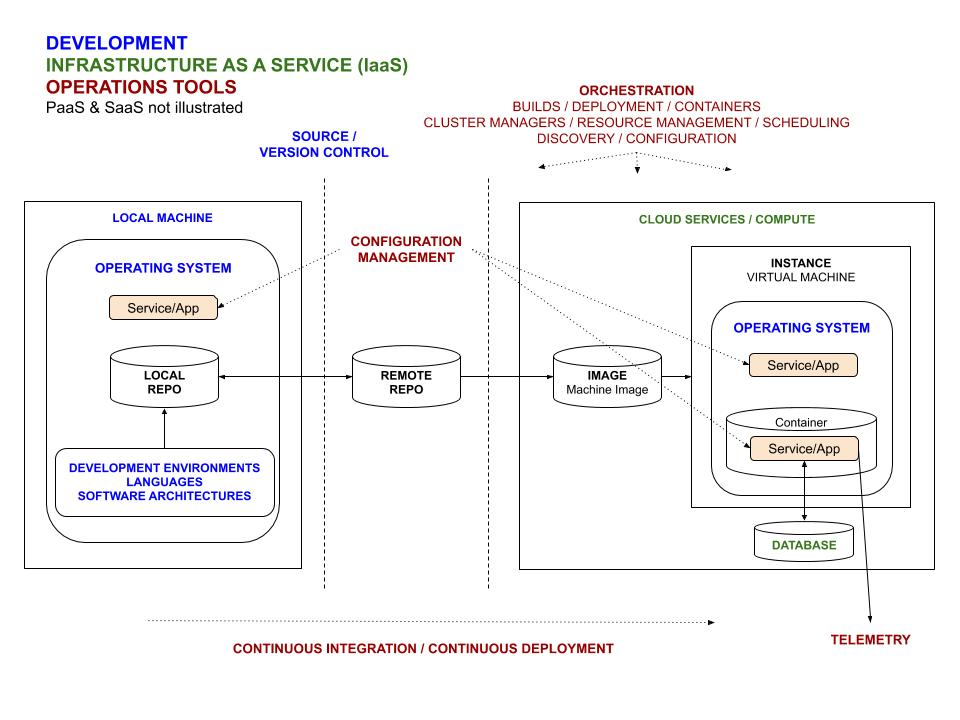
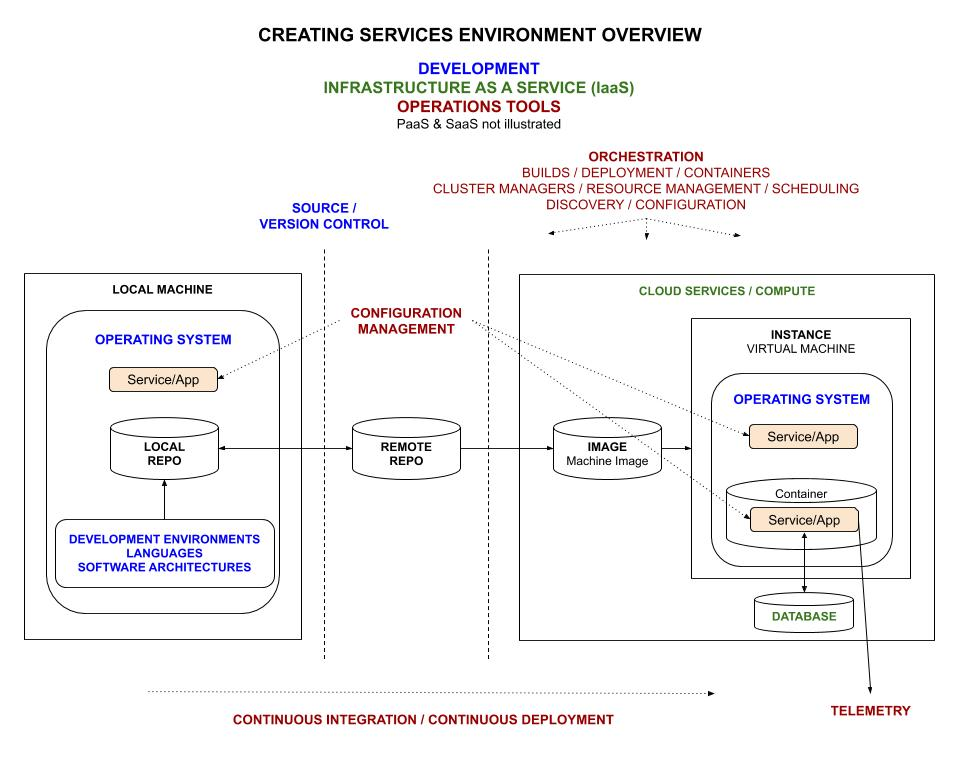
update hardware overview pic

diff --git a/other/science/earth-and-space-science/astronomy-cheat-sheet/solar-system-and-beyond.md b/other/science/earth-and-space-science/astronomy-cheat-sheet/solar-system-and-beyond.md
@@ -23,6 +23,7 @@ in our solar system and beyond._
   * [MAKEMAKE (DWARF PLANET)](https://github.com/JeffDeCola/my-cheat-sheets/blob/master/other/science/earth-and-space-science/astronomy-cheat-sheet/solar-system-and-beyond.md#makemake)
 * [ERIS (DWARF PLANET)](https://github.com/JeffDeCola/my-cheat-sheets/blob/master/other/science/earth-and-space-science/astronomy-cheat-sheet/solar-system-and-beyond.md#eris)
 * [OORT CLOUD](https://github.com/JeffDeCola/my-cheat-sheets/blob/master/other/science/earth-and-space-science/astronomy-cheat-sheet/solar-system-and-beyond.md#oort-cloud)
+* [VOYAGER 1](https://github.com/JeffDeCola/my-cheat-sheets/blob/master/other/science/earth-and-space-science/astronomy-cheat-sheet/solar-system-and-beyond.md#voyager-1)
 * [STARS (IN OUR MILKY WAY GALAXY)](https://github.com/JeffDeCola/my-cheat-sheets/blob/master/other/science/earth-and-space-science/astronomy-cheat-sheet/solar-system-and-beyond.md#stars-in-our-milky-way-galaxy)
   * [PROXIMA CENTAURI](https://github.com/JeffDeCola/my-cheat-sheets/blob/master/other/science/earth-and-space-science/astronomy-cheat-sheet/solar-system-and-beyond.md#proxima-centauri)
   * [SIRIUS](https://github.com/JeffDeCola/my-cheat-sheets/blob/master/other/science/earth-and-space-science/astronomy-cheat-sheet/solar-system-and-beyond.md#sirius)
@@ -308,7 +309,7 @@ larger and more massive than the inner planets.
 * Notable facts:
   * Eris was once considered for the position of tenth planet.
 
-## VOYAGER1
+## VOYAGER 1
 
 * Distance: 145.86 AU (20 hours light time) from the sun
 * Farthest man made object from earth

diff --git a/README.md b/README.md
@@ -238,7 +238,7 @@ Various Apps and tools for the goal of creating an App/Service.
 This illustration shows how various Apps and tools fit together
 for the goal of creating an App/Service,
 
-![IMAGE - Creating Services Environment Overview - IMAGE](docs/pics/Creating-Services-Environment-Overview.jpg)
+![IMAGE - creating services environment overview - IMAGE](docs/pics/creating-services-environment-overview.jpg)
 
 ## HARDWARE CHEAT SHEETS
 
@@ -271,7 +271,10 @@ Various Apps and tools for the goal of creating an ASIC.
 
 ### VISUAL OVERVIEW OF CREATING AN ASIC
 
-This illustration coming soon.
+This illustration shows how various Apps and tools fit together
+for the goal of creating an ASIC,
+
+![IMAGE - creating an ASIC environment overview - IMAGE](docs/pics/creating-an-asic-environment-overview.jpg)
 
 ## OTHER CHEAT SHEETS
 
